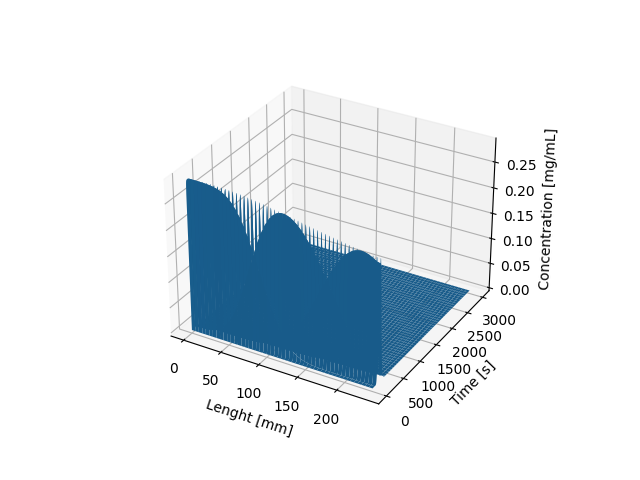
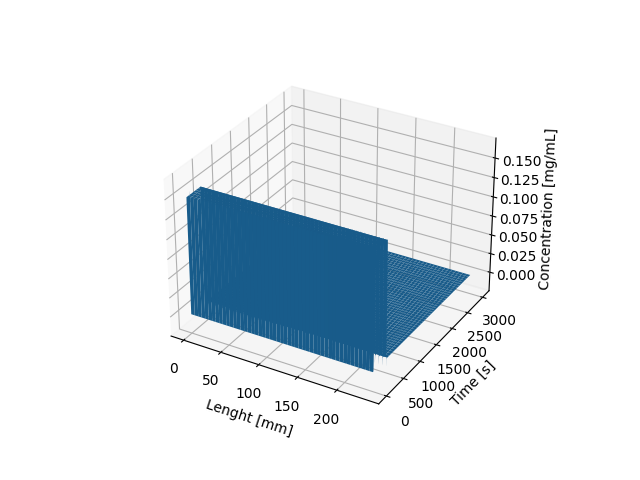
Lin_Solver bugfixing and testing

Changed region(s): [[0.25, 0.2188, 0.8438, 0.8125]]

diff --git a/functions/Lin_Solver.py b/functions/Lin_Solver.py
@@ -14,14 +14,14 @@ import matplotlib.pyplot as plt
 # Total porosity of the sorbent packing [-]
 # Henry's constant of the linear isotherm [-]
 # Axial dispersion coefficient [mm^2/s]
-def Lin_Solver(flowRate = 150,
+def Lin_Solver(flowRate = 50,
                length=235,
                diameter=16,
-               feedVol=3,
+               feedVol=15,
                feedConc=150e-3,
                porosity=0.4,
-               henryConst=0.9,
-               disperCoef=2):
+               henryConst=1.9,
+               disperCoef=6):
 
     def diagonal_form(a, lower=1, upper=1):
         # Transforms banded matrix into diagonal ordered form
@@ -45,14 +45,14 @@ def Lin_Solver(flowRate = 150,
     # Calculation of the feed time [s]
     feedTime = (feedVol / flowRate) * 3600
     # Calculation of the flow speed [mm/s]
-    flowSpeed = (flowRate * 1000 / 3600) / (math.pi * ((diameter / 4) ** 2) * porosity)
+    flowSpeed = ((flowRate / 3600) * math.pi * (diameter**2) * porosity)/4
 
     # Defining constants
-    a = disperCoef/((((1-porosity)*henryConst)/porosity)-1)  # *** !!! PODLE DOKUMENTU
-    b = flowSpeed/((((1-porosity)*henryConst)/porosity)-1)  # *** !!! PODLE DOKUMENTU
+    a = disperCoef/((((1-porosity)*henryConst)/porosity)+1)  # *** !!! PODLE DOKUMENTU
+    b = flowSpeed/((((1-porosity)*henryConst)/porosity)+1)  # *** !!! PODLE DOKUMENTU
 
     time = 3000  # Finite time of the experiment [s]
-    Nx = 3000  # Number of spatial differences
+    Nx = 500  # Number of spatial differences
     Nt = 3000  # Number of time differences
     x = np.linspace(0, length, Nx)  # Preparation of space vector
     dx = length / Nx  # Calculating space step [mm]
@@ -117,7 +117,7 @@ def Lin_Solver(flowRate = 150,
     # Implementing discretization
     for i in range(1, Nt):  # Advance in time
         b = B.dot(c[i - 1, :])
-        b[0] = feed[i] # From left boundary (start at 1 ???)
+        b[0] = b[0] + flowSpeed * feed[i]  # From left boundary (start at 1 ???)
         c[i, :] = linalg.solve_banded((1, 1), A_diag, b)
         # c[i,:] = linalg.solve(A, b) # Solve linear system of algebraic equations
         if i == 1:

diff --git a/objects/Operator.py b/objects/Operator.py
@@ -46,9 +46,9 @@ class Operator:
 
     #Start for testing purposes
     def Start_For_Testing(self):
-        Nonlin_Solver()
+        Lin_Solver()
         #path = "C:\\Users\\Adam\\ChroMo\\docu\\TestExperimentSet1"
-        #path = "C:\\Users\\z004d8nt\\PycharmProjects\\ChoMo\\docu\\TestExperimentSet1"
+        path = "C:\\Users\\z004d8nt\\PycharmProjects\\ChoMo\\docu\\TestExperimentSet1"
         #experimentSet = self.Load_Experiment_Set(path)
         #experimentSetCopy = Deep_Copy_ExperimentSet(experimentSet)
         #experimentClusterComp = self.Cluster_By_Component(experimentSetCopy)

diff --git a/functions/Compare_ExperimentSets.py b/functions/Compare_ExperimentSets.py
@@ -24,6 +24,7 @@ def Compare_ExperimentSets(experimentSet1, experimentSet2):
                         newDF = pd.concat([comp1.concentrationTime, comp2.concentrationTime], axis=1)
                         pd.set_option('display.max_rows', None)
                         print(newDF)
+                        newDF.to_excel('C:/Users/z004d8nt/PycharmProjects/ChoMo/docu/table'+str(indexExp)+str(indexComp)+'.xlsx')
                         comp1.concentrationTime.plot.line(x=0)
                         comp2.concentrationTime.plot.line(x=0)
                         plt.show()
